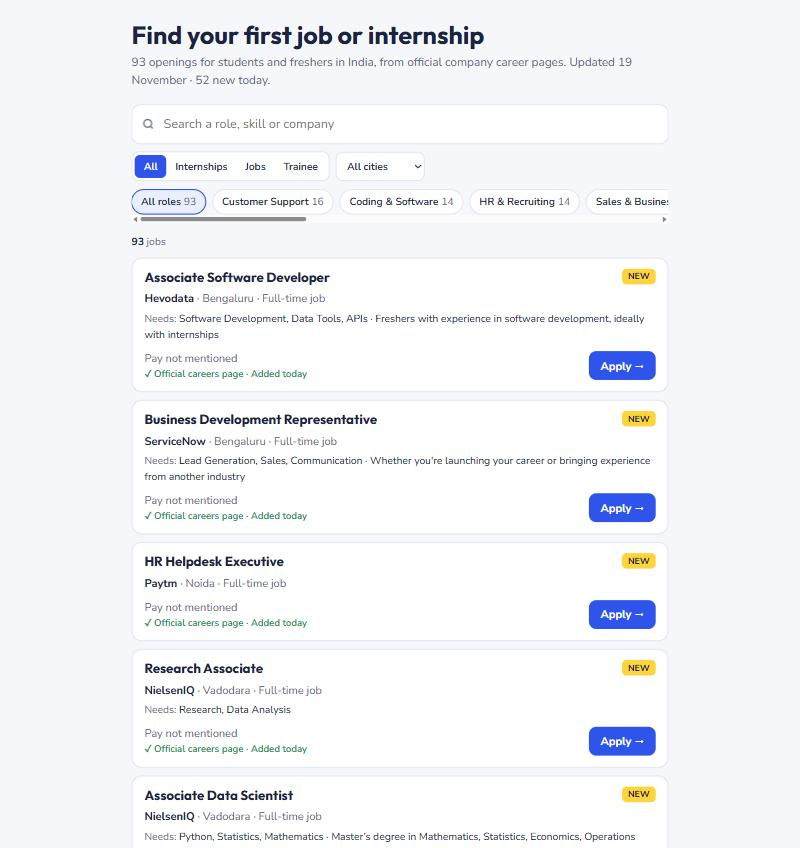
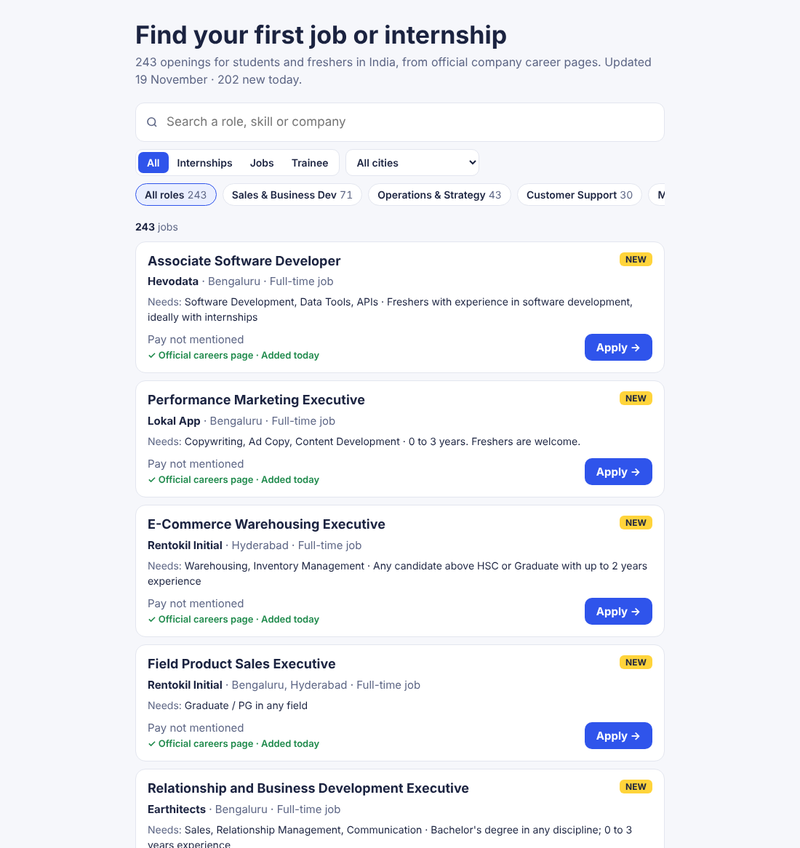
Fresh accuracy check on the 243 posts, Hyderabad area names, new screenshots
- eval/sample_v3.csv: 50 random live posts (none from earlier samples), each
  checked against the full post text: role 96%, city 88%, 46/50 really open
  to freshers. BUILD_LOG #29 lists the misses.
- config/settings.yaml: Medchal, Miyapur and other Hyderabad area names, so
  the existing location fallback fills the city when the AI leaves it empty
  (fixes 3 of the 6 city misses). Test added.
- docs/img: screenshots of the 243-job page.
- README, SUBMISSION, VIDEO_SCRIPT, CLAUDE.md: new accuracy numbers.

Claude-Session: https://claude.ai/code/session_0129zV2P4AZeGKCjGgmdVBnX

diff --git a/tests/test_filters.py b/tests/test_filters.py
@@ -29,6 +29,9 @@ def test_rules(rules, post, expected):
 
 def test_city_aliases(rules):
     assert rules.cities_in("Bangalore; Gurgaon, Haryana; Navi Mumbai") == ["Bengaluru", "Mumbai", "Gurugram"]
+    # Hyderabad area names seen in the 19 Nov accuracy check (BUILD_LOG #29)
+    assert rules.cities_in("Medchal, Telangana, India") == ["Hyderabad"]
+    assert rules.cities_in("Miyapur, Telangana, India") == ["Hyderabad"]
 
 
 def test_tidy_company():

diff --git a/docs/BUILD_LOG.md b/docs/BUILD_LOG.md
@@ -32,4 +32,5 @@ Add a line every time something goes wrong. This is the script for the "what bro
 | 26 | Accuracy check: 2 of 50 sampled live posts are probably not fresher jobs ("mandatory experience", "lead cross-functional teams"), both from Bosch | Bosch titles say nothing about level, and the AI was a little generous when the description mixed "B.E." with experience wording | Noted in `eval/sample_50.csv`; role 94%, city 98%. Prompt v2 (`config/prompts/tagger_v2.md`): "mandatory/required experience" or leading a team means not entry-level, a degree alone is not enough, and field/on-site work is never Remote. Role hints now cover technical writing, post-sales engineers and AI research. New file name = new cache key, so every post is re-tagged once. Unit-tested. Result (run of 19 Nov): live 94 -> 93 (24 closed, 23 new). 20 of the 50 sampled v1 posts were dropped; at least 7 of them say "1–3 years", "1–2 years" or "1+ years" in the description, so v1 was letting experienced roles through. Technical Writer and Post-sales Engineer now get the right role. Still wrong: the Karya AI-evaluation intern stays "coding", and the field-marketing job is still "Remote" (the model ignored the rule). (These fixes came from the same 50 posts, so re-scoring that sample would flatter v2; a fresh sample is the fair test) |
 | 27 | A fresh check of 50 v2 posts found live jobs asking "4–5 years", "2+ years", "1–3 years" | Two causes. (1) The AI saw only the first 900 characters, and most posts open with "About the company" and put experience near the end. (2) Even when it saw "1 - 3 years", Gemini Flash-Lite sometimes still said entry-level | (1) The AI now gets the start of the post PLUS every later sentence about experience or eligibility (`excerpt()` in `tagging/prompt.py`; prompt v3). (2) A plain rule in `filters.py`: if the description requires at least `reject_min_experience_years` (1) years and never mentions freshers, the post is dropped, unless it is an internship or trainee post. "0-1 years", "up to 2 years", "6 months to 3 years" are kept. 13 unit tests use real wordings from live posts. Result: 547 posts dropped by the rule before the AI (16 AI calls instead of 35); live stays 93. Of the 50 fresh-sample posts, 22 were dropped: reading the FULL text, 16 ask for experience (e.g. "5 to 6 years" for a "Technical Account Engineer I"), only 1 is a clear wrong drop ("fresh graduates OR 2+ years", the AI's call) and 5 say nothing. I first misjudged 10 of these myself from the first 1,500 characters: the same trap as the AI |
 | 28 | Still 93 live posts after #25: the four US-style job-board APIs barely cover Indian startups | Indian startups and Indian offices mostly post on other platforms: Keka Hire (an Indian HR tool), Workable, Recruitee, Breezy HR | Added one small source module per platform (`sources/workable.py`, `recruitee.py`, `breezy.py`, `keka.py`), each reading the public feed the company's own careers page uses. Keka's robots.txt allows only `/careers/`, so we read only there. Keka's "Experience: 2 - 4 Years" field is put at the top of the description so the free years rule drops experienced roles. Tested from GitHub's servers first (this sandbox cannot reach the APIs, #1): 20 boards answered; the free rules kept 139 posts and sent 184 unclear ones to the AI. A full test run of the daily pipeline (with AI tagging, nothing published) gave **246 live posts, up from 93**, from 147/147 boards. Left out on purpose: recruitment agencies and gig platforms that post FOR other companies (weekday-1, hudsonmanpower, toloka-ai) |
+| 29 | Fresh accuracy check on 50 of the 243 posts: role 96%, city 88%, and 4 posts (8%) asked for experience | Cities: the AI left the city empty for Hyderabad area names it does not know (Medchal, Miyapur), and once tagged Tirupati as Thiruvananthapuram. Experience: "1 to 3 years of Accounts Payable" has no word "experience" near it, so the plain rule skipped it; three Everpure posts ask for "mastery" with no number | Added Hyderabad area names to `config/settings.yaml` → cities (the existing fallback fills the city from the location line when the AI leaves it empty): fixes 3 of the 6 city misses. Experience misses noted, not fixed before the deadline: widening the years rule to "N years of <anything>" would also drop good posts that say "25 years of excellence". Also seen: one Rentokil walk-in dated 9 Mar 2026 is still open on their board |
 |  | *(add real issues from the next runs here)* | | |

diff --git a/CLAUDE.md b/CLAUDE.md
@@ -7,7 +7,7 @@ Built for Beep's Gen AI & Engineering assignment (deadline Fri 20 Nov 2026, 11:5
 Live: https://vrushali-pixel.github.io/beep-jobs/
 
 ## Commands
-- `pip install -e ".[dev]"`, then `make test` (57 offline tests) and `make lint` (ruff)
+- `pip install -e ".[dev]"`, then `make test` (60 offline tests) and `make lint` (ruff)
 - `fresherjobs run` (needs internet; `GEMINI_API_KEY` for AI tagging), `fresherjobs discover`,
   `fresherjobs sample`, `fresherjobs score FILE`
 - `make serve` serves `site/` at http://localhost:8000
@@ -34,7 +34,7 @@ Live: https://vrushali-pixel.github.io/beep-jobs/
 ## Open work (in order, as of 19 Nov 2026)
 Done: Gemini key + LLM tagging (S1/S3/S12), accuracy samples (S11, checked by Claude), README numbers,
 screenshots, `docs/SUBMISSION.md`, `docs/VIDEO_SCRIPT.md`. Live: 243 posts after adding Workable/Recruitee/Breezy/Keka (BUILD_LOG #28, 19 Nov).
-1. Owner spot-checks 5–10 rows of `eval/sample_50.csv` and `eval/sample_v2.csv`, then close issue #11.
+1. Owner spot-checks 5–10 rows of `eval/sample_v3.csv` (newest, 50 of the 243; checked by Claude 19 Nov), then close issue #11.
 2. Owner puts `docs/SUBMISSION.md` into the Google Doc/Sheet and records the Loom from `docs/VIDEO_SCRIPT.md`.
 3. Just before submitting (deadline Fri 20 Nov 2026, 11:59 PM IST): `gh workflow disable daily.yml` to freeze the numbers.
 4. Local note: this PC needs `git -c http.sslBackend=schannel pull/push` (certificate store).

diff --git a/README.md b/README.md
@@ -63,14 +63,16 @@ One daily run, from 147 official company job boards on 8 platforms:
 
 | | |
 |---|---|
-| Role tag correct | 94% (first 50-post sample) · 89% (a second, fresh sample of 28 live posts) |
-| City tag correct | 98% · 100% |
+| Role tag correct | 96% (fresh 50-post sample of the 243, 19 Nov) · earlier: 94% and 89% |
+| City tag correct | 88% (3 of the 6 misses fixed since by adding Hyderabad area names) · earlier: 98%, 100% |
 | Cost per 1,000 posts | **$0.39** at Gemini 3.5 Flash-Lite paid prices (280 input + 121 output tokens per post); **$0 actually paid** (free tier) |
 | Run time | ~13 minutes, of which most is politely reading descriptions |
-| Tests | 57 offline tests, lint, on every push |
+| Really open to freshers | 46 of 50 (92%); 4 asked for experience the rules and AI missed |
+| Tests | 60 offline tests, lint, on every push |
 
 The accuracy samples were checked by Claude (a second model) against each full post, not yet by a
-person: see `eval/sample_50.csv` and `eval/sample_v2.csv`.
+person: see `eval/sample_v3.csv` (newest, 50 of the 243 live posts) and the earlier
+`eval/sample_50.csv` and `eval/sample_v2.csv`.
 
 ### How it went from 93 to 243
 

diff --git a/docs/SUBMISSION.md b/docs/SUBMISSION.md
@@ -24,8 +24,10 @@ pay, scam red flags), and publishes a static search page. Closed jobs disappear 
 | Screened by the LLM (after merging 174 duplicates) | 633 |
 | **Live** | **243** |
 
-- **Accuracy:** role 94% / city 98% on 50 random posts; role 89% / city 100% on a second, fresh
-  sample of 28 posts. Checked by Claude against each full post (owner spot-check).
+- **Accuracy (fresh sample of 50 of the 243 live posts, 19 Nov):** role 96%, city 88% (3 of the 6
+  misses were Hyderabad area names like Medchal and Miyapur, now in the city list), and 46 of 50
+  (92%) really open to freshers. Earlier samples on the 93-post set: role 94% / 89%, city 98% / 100%.
+  Checked by Claude against each full post (owner spot-check): `eval/sample_v3.csv`.
 - **Cost:** $0.39 per 1,000 posts at Gemini 3.5 Flash-Lite paid prices (280 input + 121 output
   tokens per post, measured over 2,148 LLM-tagged posts). Actually paid: $0 (free tier). Only new
   posts are sent to the LLM; answers are cached per prompt version.

diff --git a/docs/VIDEO_SCRIPT.md b/docs/VIDEO_SCRIPT.md
@@ -32,7 +32,7 @@ Pick 3–4:
    mistake myself when I read only the start of the posts."
 
 **4:15–5:00 · Numbers and next**
-- 13,274 posts → 243 live; role accuracy 89–94%, city 98–100%; $0.39 per 1,000 posts, $0 paid.
+- 13,274 posts → 243 live; on a fresh 50-post check: role 96%, city 88%, 46 of 50 really for freshers; $0.39 per 1,000 posts, $0 paid.
 - "It was stuck at 93 because Indian startups don't use the US job-board platforms. I added Workable,
   Recruitee, Breezy and Keka, the feeds their own careers pages use, and it went to 243 with the same
   strict rules. Each company is one config line. Next: Beep's hiring partners as a source, report a
